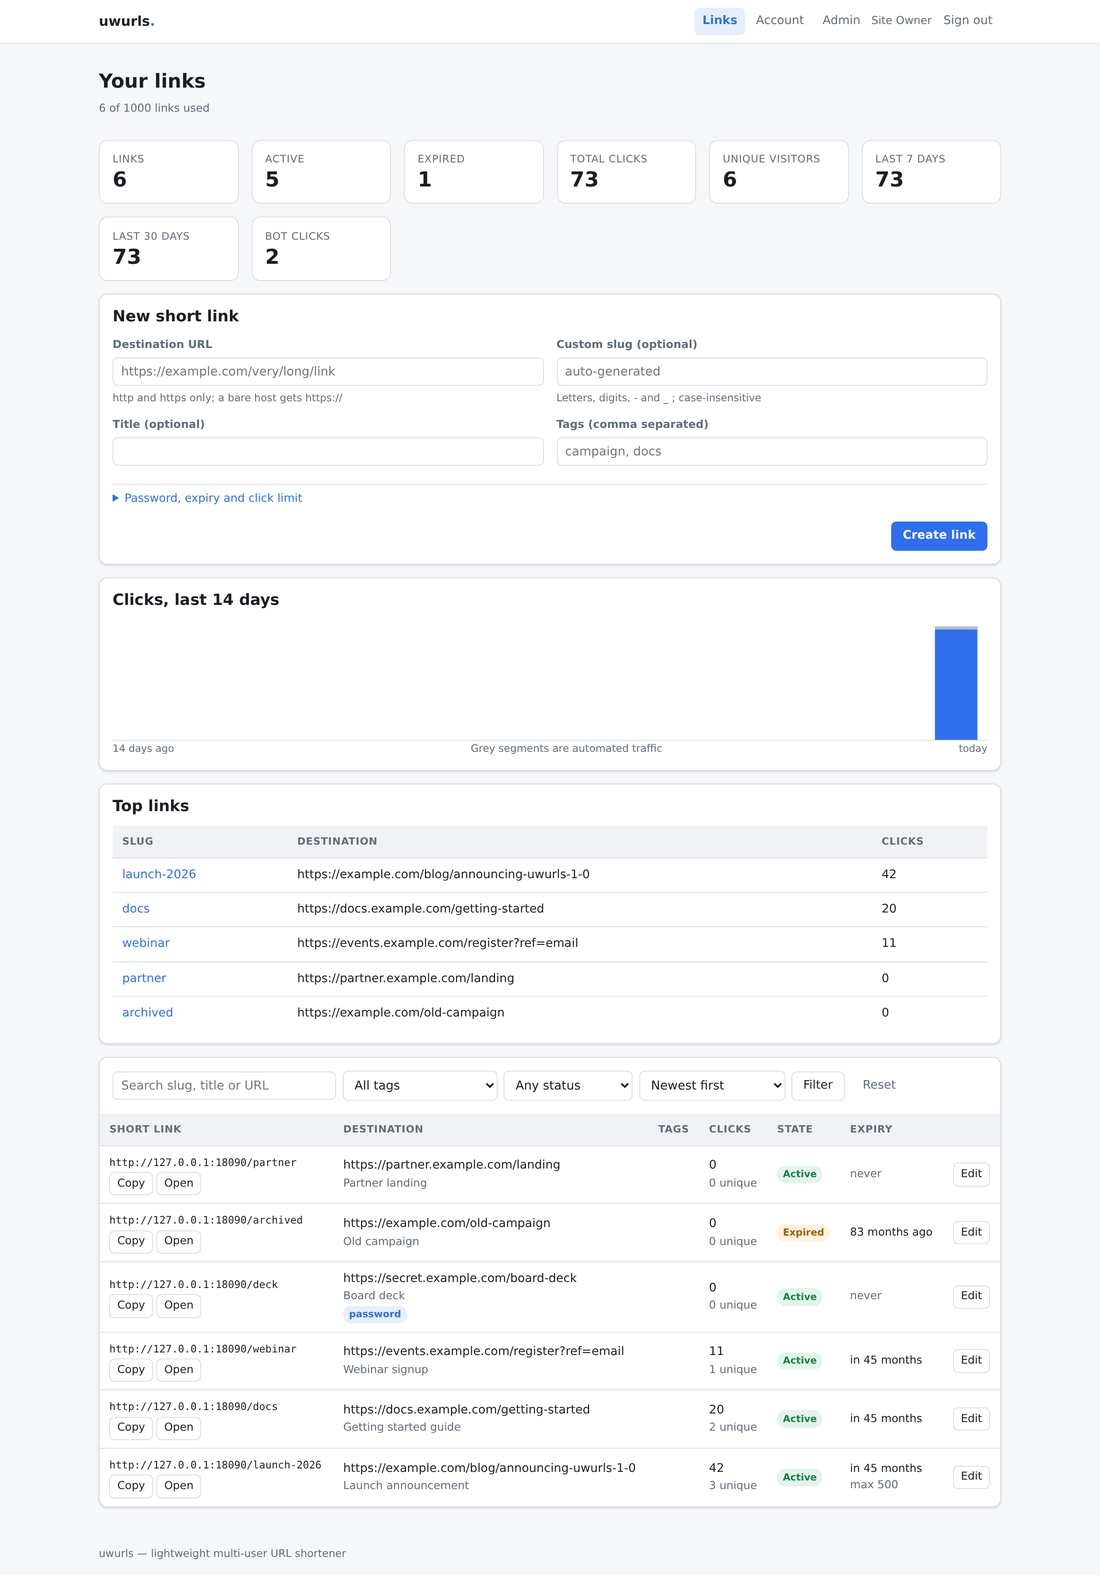
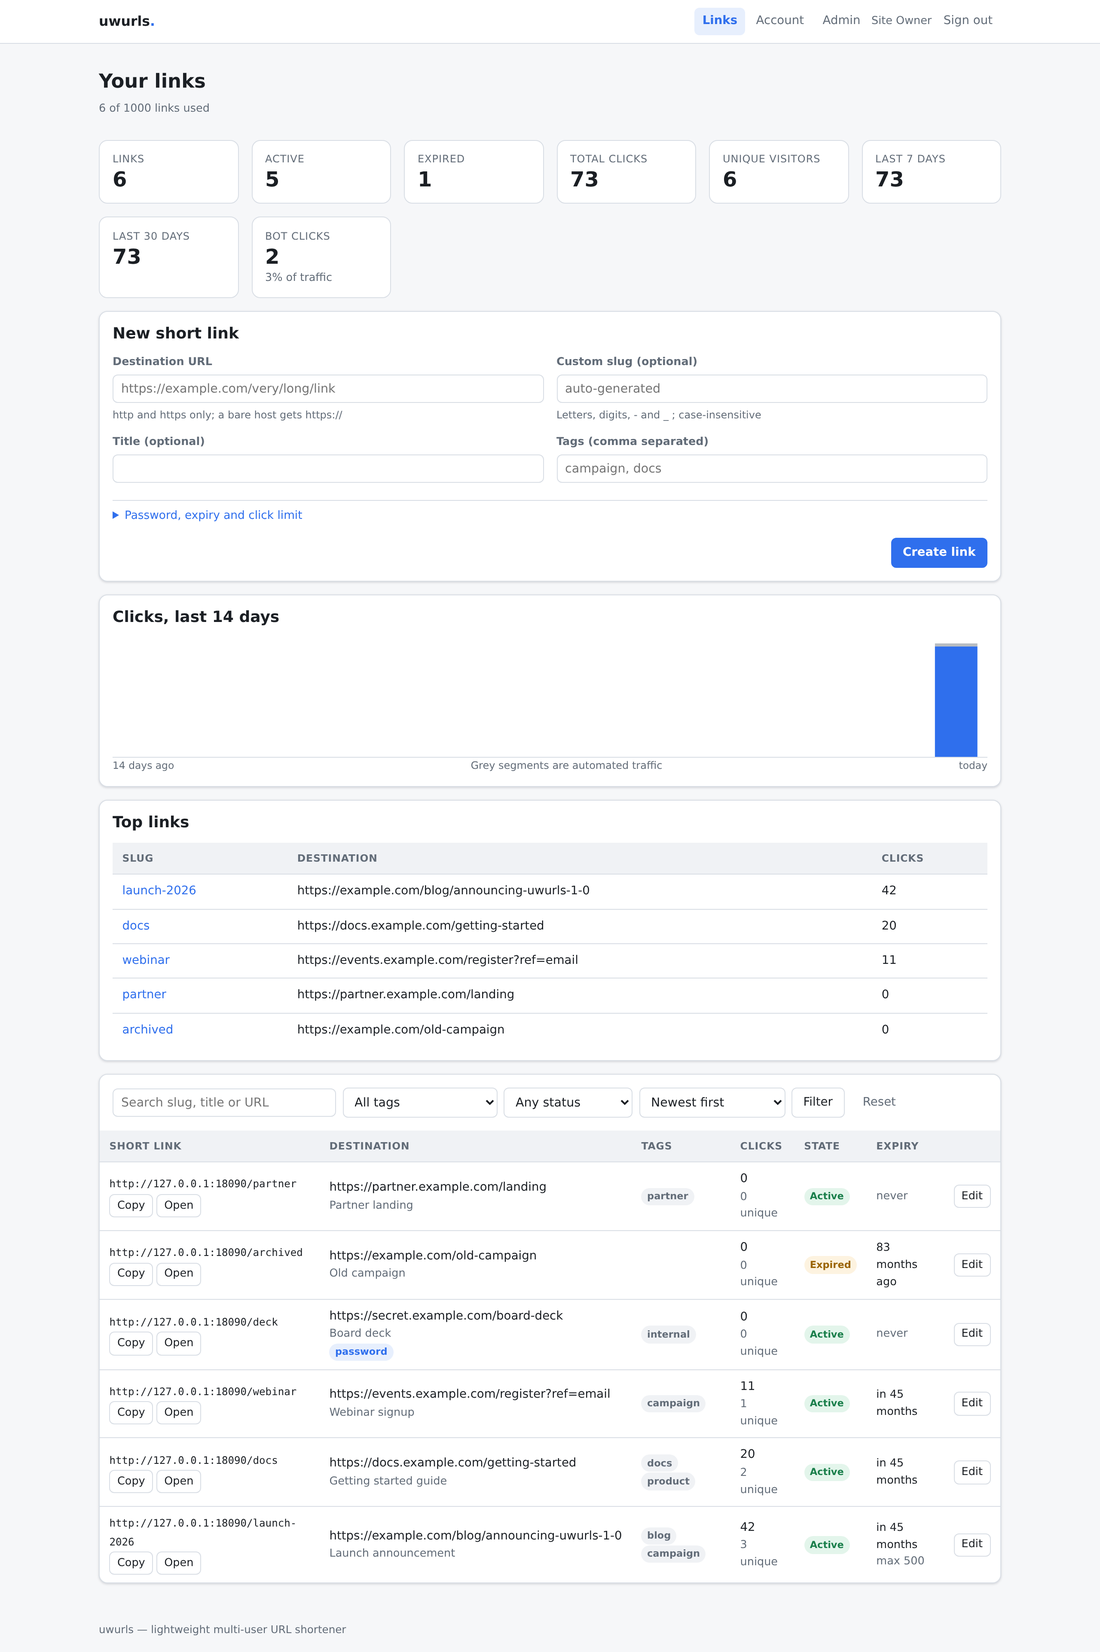
📝 docs: refresh screenshots and document the extend action
- regenerated dashboard, link detail, admin, password page and dark mode
  screenshots from the current build (bot share, quick extend)
- added an expired-link screenshot showing the one-click extend actions
- README links the new screenshot

diff --git a/scripts/screenshot.py b/scripts/screenshot.py
@@ -40,6 +40,11 @@ with sync_playwright() as playwright:
     page.wait_for_timeout(300)
     page.screenshot(path=f"{OUT}/05-url-detail.png", full_page=True)
 
+    # The expired link shows the one-click extend actions.
+    page.goto(f"{BASE}/app/urls/5")
+    page.wait_for_timeout(300)
+    page.screenshot(path=f"{OUT}/18-expired-detail.png", full_page=True)
+
     page.goto(f"{BASE}/app/account")
     page.wait_for_timeout(250)
     page.screenshot(path=f"{OUT}/06-account.png", full_page=True)

diff --git a/README.md b/README.md
@@ -75,9 +75,11 @@ uwurls version | help
 |---|---|
 | ![URL detail](docs/screenshots/url-detail.png) | ![Admin](docs/screenshots/admin-overview.png) |
 
-| 密碼保護頁 | 深色模式 |
+| 密碼保護頁 | 已過期連結（可一鍵延長） |
 |---|---|
-| ![Password page](docs/screenshots/password-page.png) | ![Dark](docs/screenshots/dark.png) |
+| ![Password page](docs/screenshots/password-page.png) | ![Expired link](docs/screenshots/expired-link.png) |
+
+深色模式：![Dark mode](docs/screenshots/dark.png)
 
 ## 技術選擇
 
